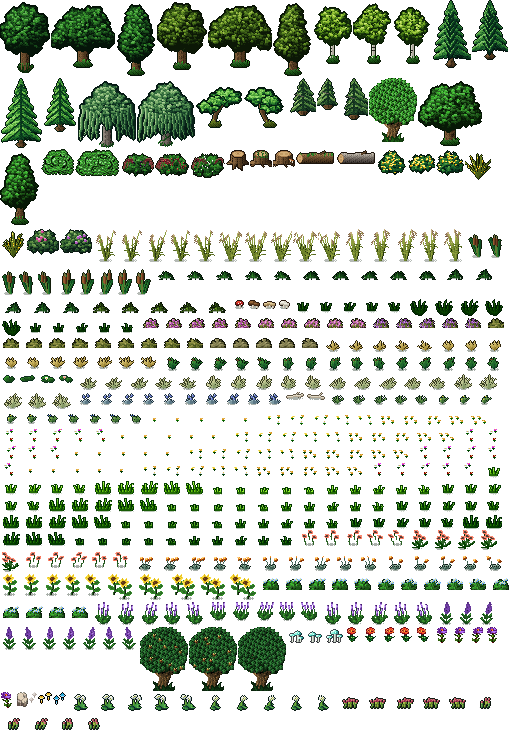
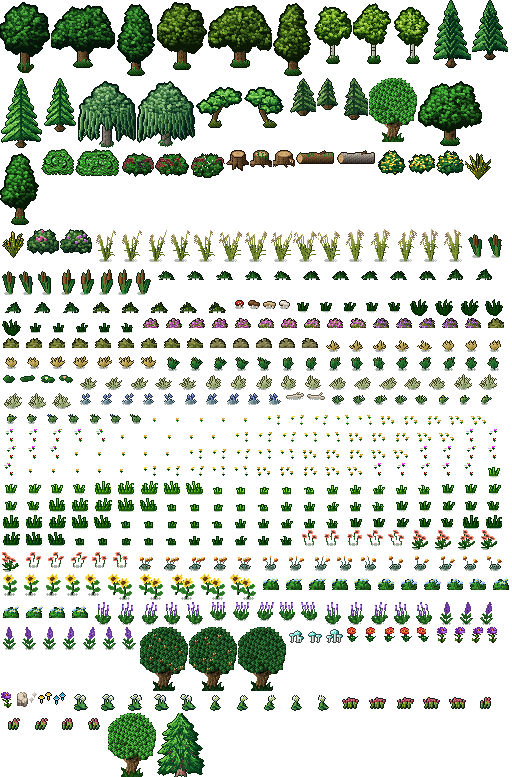
Île : l'arbre clair, le pin et les buissons de l'ancienne ferme, en bosquets dans la prairie et aux lisières (#652)
Le générateur de l'île ne prend que les espèces de monde.json VEGETATION.SORTES : le pin de l'ancienne ferme n'y était
pas, son arbre clair n'était qu'une des trois images de l'arbre_pre, ses buissons (buisson_pre) rares et isolés.
- vegetation.py : l'arbre clair et le pin, tels quels (arbre_clair.png, pin_clair_sp.png), deux espèces à part.
- ile.json : en bosquets épars (groupe 3 à 8) dans la prairie et aux lisières des clairières, avec les buissons de la
  ferme ; à 6 cases au moins du départ. L'arbre clair donne le gland, le pin la pomme de pin (le pin repousse d'une
  pomme de pin plantée dans la prairie), les buissons la graine de buisson.

Claude-Session: https://claude.ai/code/session_01LLRKqts6ScEhQ4GY4ztZyU

diff --git a/js/data.generated.js b/js/data.generated.js
@@ -6034,7 +6034,9 @@ export const RAW_DATA = {
       { "nom": "champignon_jaune", "genre": "basse", "variantes": 1 },
       { "nom": "champignon_bleu", "genre": "basse", "variantes": 1 },
       { "nom": "ail_ours_sauvage", "genre": "basse", "variantes": 2, "penche": true },
-      { "nom": "salicorne_sauvage", "genre": "basse", "variantes": 2, "penche": true }
+      { "nom": "salicorne_sauvage", "genre": "basse", "variantes": 2, "penche": true },
+      { "nom": "arbre_clair", "genre": "arbre", "variantes": 1, "bloque": [[0, 0]], "ecart": 1 },
+      { "nom": "pin_clair", "genre": "arbre", "variantes": 1, "bloque": [[0, 0]], "ecart": 1 }
     ],
     "REMPLACE": [{ "biome": "foret", "sols": ["feuilles", "mousse"], "de": "feuillu", "vers": "chataignier", "part": 0.0625 }],
     "DENSITES": {
@@ -6275,6 +6277,15 @@ export const RAW_DATA = {
         "retour": [6, 10]
       },
       "arbre_pre": { "geste": "couper", "coups": 3, "coup": { "bois": 1 }, "fin": { "bois": [2, 3] }, "chance": { "gland": 25 }, "retour": [5, 8] },
+      "arbre_clair": { "geste": "couper", "coups": 3, "coup": { "bois": 1 }, "fin": { "bois": [2, 3] }, "chance": { "gland": 25 }, "retour": [5, 8] },
+      "pin_clair": {
+        "geste": "couper",
+        "coups": 3,
+        "coup": { "bois": 1 },
+        "fin": { "bois": [2, 3] },
+        "chance": { "pomme_de_pin": 30 },
+        "retour": [5, 8]
+      },
       "buisson_pre": { "geste": "couper", "coups": 1, "fin": { "bois": [1, 2] }, "retour": [3, 5] },
       "ajonc": { "geste": "couper", "coups": 1, "fin": { "bois": [1, 1] }, "retour": [3, 5] },
       "genet": { "geste": "couper", "coups": 1, "fin": { "bois": [1, 1] }, "retour": [3, 5] },
@@ -10016,10 +10027,17 @@ export const RAW_DATA = {
       "NUITS": [2, 3],
       "SANS_POUSSE": { "champignon": 1 },
       "EXCLUES": ["souche", "tronc_couche", "bois_flotte", "pierre"],
-      "ARBRES": { "feuillu": "gland", "sapin": "pomme_de_pin", "pin_tordu": "pomme_de_pin", "sapin_nain": "pomme_de_pin" },
+      "ARBRES": {
+        "feuillu": "gland",
+        "arbre_clair": "gland",
+        "sapin": "pomme_de_pin",
+        "pin_tordu": "pomme_de_pin",
+        "sapin_nain": "pomme_de_pin",
+        "pin_clair": "pomme_de_pin"
+      },
       "GROUPES": {
         "gland": { "plantes": ["feuillu"], "choix": "tous" },
-        "pomme_de_pin": { "plantes": ["sapin", "pin_tordu", "sapin_nain"], "choix": "biome" }
+        "pomme_de_pin": { "plantes": ["sapin", "pin_tordu", "sapin_nain", "pin_clair"], "choix": "biome" }
       },
       "PROPRES": ["arbre", "fleur", "fruitier"],
       "FAMILLES": {
@@ -10150,7 +10168,9 @@ export const RAW_DATA = {
           "prairie": {
             "herbe": {
               "arbre_pre": 0.004,
-              "buisson_pre": 0.004,
+              "arbre_clair": 0.0015,
+              "pin_clair": 0.0008,
+              "buisson_pre": 0.0015,
               "fleurs": 0.03,
               "touffe_pre": 0.05,
               "coquelicot": 0.006,
@@ -10291,7 +10311,9 @@ export const RAW_DATA = {
           "prairie": { "herbe": { "saule": 0.012, "roseaux": 0.15, "massette": 0.03, "jonc": 0.14, "myosotis": 0.02 } },
           "foret": { "mousse": { "saule": 0.01, "jonc": 0.06, "myosotis": 0.01 } }
         },
-        "lisiere": { "foret": { "clairiere": { "rhododendron": 0.006, "sapin_nain": 0.004 } } },
+        "lisiere": {
+          "foret": { "clairiere": { "rhododendron": 0.006, "sapin_nain": 0.004, "arbre_clair": 0.004, "pin_clair": 0.002, "buisson_pre": 0.003 } }
+        },
         "haut": {
           "lande": {
             "lande": { "bloc": 0.008, "gisement_or": 0.0015, "gisement_platine": 0.0012, "cristaux_quartz": 0.003, "cristaux_amethyste": 0.0015 },
@@ -10326,6 +10348,9 @@ export const RAW_DATA = {
         "vanille_sauvage": { "placement": { "partout": { "foret": { "mousse": 0.0006 } } }, "min": 4, "loinDuDepart": 80 },
         "cafe_sauvage": { "placement": { "partout": { "foret": { "mousse": 0.0006 } } }, "min": 4, "loinDuDepart": 80 },
         "ail_ours_sauvage": { "groupe": [3, 8] },
+        "arbre_clair": { "groupe": [3, 8], "min": 30, "loinDuDepart": 6 },
+        "pin_clair": { "groupe": [3, 7], "min": 20, "loinDuDepart": 6 },
+        "buisson_pre": { "groupe": [2, 6], "min": 30, "loinDuDepart": 6 },
         "salicorne_sauvage": { "groupe": [3, 8] },
         "chataignier": { "min": 10 },
         "pin_tordu": { "min": 15 },

diff --git a/scripts/carte/vegetation.py b/scripts/carte/vegetation.py
@@ -568,6 +568,19 @@ def buissons_ferme():
     return out
 
 
+def arbres_ferme():
+    """L'arbre clair et le pin de l'ancienne ferme (assets/arbre_clair.png, pin_clair_sp.png : sa 1re image, droite,
+    sans ses 4 px de marge), tels quels : sur l'île, ils poussent en bosquets dans la prairie et aux lisières
+    (data/ile.json PLACEMENTS)."""
+    arbre = Image.open(os.path.join(ASSETS, 'arbre_clair.png')).convert('RGBA').crop((0, 0, 48, 64))
+    pin = Image.open(os.path.join(ASSETS, 'pin_clair_sp.png')).convert('RGBA').crop((4, 0, 68, 64))
+    out = {}
+    for nom, im, cx in (('arbre_clair', arbre, 24), ('pin_clair', pin, 32)):
+        x0, y0, x1, y1 = im.getbbox()
+        out[nom] = [(im.crop((x0, y0, x1, y1)), cx - x0, 62 - y0 - 1)]
+    return out
+
+
 def ronces(graine, variante):
     """Un roncier : un tas de feuilles sombres d'où sortent des tiges en arceaux, rouge sombre,
     des mûres noires (ou des fleurs blanches)."""
@@ -1336,6 +1349,7 @@ def dessins():
         pre.append((t.image(), fx, fy))
     out['arbre_pre'] = pre
     out['buisson_pre'] = buissons_ferme()
+    out.update(arbres_ferme())
     une = lambda f, g0, n: [(lambda t: (t[0].image(), t[1], t[2]))(f(g0 + k * 17, k)) for k in range(n)]  # noqa: E731
     out['ronces'] = une(ronces, 800, 3)
     out['souche'] = une(souche, 820, 3)
